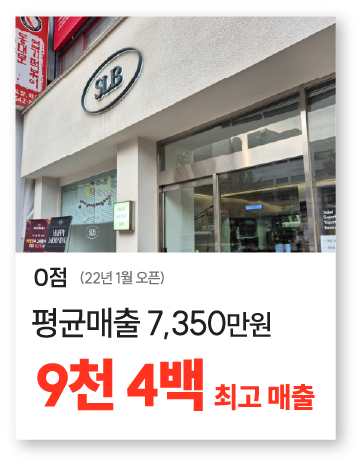
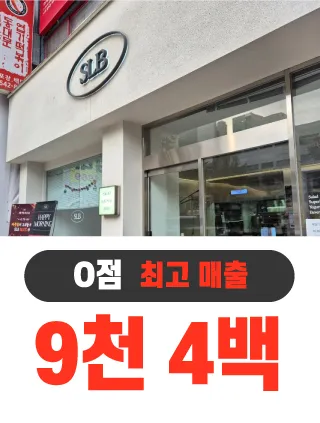
fix: Point2Section 및 Sub4Section1의 이미지 스타일 수정 및 비율 조정

diff --git a/src/components/main/main/Point2Section.tsx b/src/components/main/main/Point2Section.tsx
@@ -47,12 +47,12 @@ const Point2Section: React.FC = () => {
         </SlideUpOnView>
         {deviceInfo.isSmallScreen || deviceInfo.isMobile ? (
           <div
-            className={`w-full mt-6 mb-10 px-10 flex flex-col justify-around items-center`}
+            className={`w-[95%] mt-6 mb-10 px-10 flex flex-col justify-around gap-5 items-center`}
           >
             <div className=''>
               <img
                 loading='lazy'
-                className='w-full rounded-t'
+                className='aspect-[455/220] w-full shadow-[4px_4px_12px_rgba(0,0,0,0.25),_-2px_-2px_6px_rgba(0,0,0,0.15)]'
                 alt='평균매출 7,350만원 9천4백 최고매출'
                 src={`${process.env.PUBLIC_URL}/main/point_2_mo_3.webp`}
               />
@@ -60,7 +60,7 @@ const Point2Section: React.FC = () => {
             <div className=''>
               <img
                 loading='lazy'
-                className='w-full rounded-t'
+                className='aspect-[455/220] w-full shadow-[4px_4px_12px_rgba(0,0,0,0.25),_-2px_-2px_6px_rgba(0,0,0,0.15)]'
                 alt='평균매출 4,700만원 8천9백 최고매출'
                 src={`${process.env.PUBLIC_URL}/main/point_2_mo_2.webp`}
               />
@@ -68,7 +68,7 @@ const Point2Section: React.FC = () => {
             <div className=''>
               <img
                 loading='lazy'
-                className='w-full rounded-t'
+                className='aspect-[455/220] w-full  shadow-[4px_4px_12px_rgba(0,0,0,0.25),_-2px_-2px_6px_rgba(0,0,0,0.15)]'
                 alt='평균매출 7,960만원 7천9백 최고매출'
                 src={`${process.env.PUBLIC_URL}/main/point_2_mo_1.webp`}
               />
@@ -79,7 +79,7 @@ const Point2Section: React.FC = () => {
             <div className='w-[31%]'>
               <img
                 loading='lazy'
-                className='w-full rounded-t'
+                className='aspect-[320/423] w-full shadow-[4px_4px_12px_rgba(0,0,0,0.25),_-2px_-2px_6px_rgba(0,0,0,0.15)]'
                 alt='평균매출 7,350만원 9천4백 최고매출'
                 src={`${process.env.PUBLIC_URL}/main/point_2_store_1.webp`}
               />
@@ -87,7 +87,7 @@ const Point2Section: React.FC = () => {
             <div className='w-[31%]'>
               <img
                 loading='lazy'
-                className='w-full rounded-t'
+                className='aspect-[320/423] w-full shadow-[4px_4px_12px_rgba(0,0,0,0.25),_-2px_-2px_6px_rgba(0,0,0,0.15)]'
                 alt='평균매출 4,700만원 8천9백 최고매출'
                 src={`${process.env.PUBLIC_URL}/main/point_2_store_2.webp`}
               />
@@ -95,7 +95,7 @@ const Point2Section: React.FC = () => {
             <div className='w-[31%]'>
               <img
                 loading='lazy'
-                className='w-full rounded-t'
+                className='aspect-[320/423] w-full shadow-[4px_4px_12px_rgba(0,0,0,0.25),_-2px_-2px_6px_rgba(0,0,0,0.15)]'
                 alt='평균매출 7,960만원 7천9백 최고매출'
                 src={`${process.env.PUBLIC_URL}/main/point_2_store_3.webp`}
               />
@@ -106,9 +106,9 @@ const Point2Section: React.FC = () => {
           <></>
         ) : (
           <a
-            href="/sub_4/rateOfReturn"
-            target="_blank"
-            rel="noopener noreferrer"
+            href='/sub_4/rateOfReturn'
+            target='_blank'
+            rel='noopener noreferrer'
             className={`${
               deviceInfo.isSmallScreen || deviceInfo.isMobile
                 ? 'text-sub'

diff --git a/src/components/main/sub/sub_4/Sub4Section1.tsx b/src/components/main/sub/sub_4/Sub4Section1.tsx
@@ -853,12 +853,12 @@ const Sub4Section1: React.FC = () => {
           </SlideUpOnView>
           {deviceInfo.isSmallScreen || deviceInfo.isMobile ? (
             <div
-              className={`w-full mt-6 mb-10 px-10 flex flex-col justify-around items-center`}
+              className={`w-[95%] mt-6 mb-10 px-10 flex flex-col justify-around gap-5 items-center`}
             >
               <div className=''>
                 <img
                   loading='lazy'
-                  className='w-full rounded-t'
+                  className='aspect-[455/220] w-full shadow-[4px_4px_12px_rgba(0,0,0,0.25),_-2px_-2px_6px_rgba(0,0,0,0.15)]'
                   alt='평균매출 7,350만원 9천4백 최고매출'
                   src={`${process.env.PUBLIC_URL}/main/point_2_mo_3.webp`}
                 />
@@ -866,7 +866,7 @@ const Sub4Section1: React.FC = () => {
               <div className=''>
                 <img
                   loading='lazy'
-                  className='w-full rounded-t'
+                  className='aspect-[455/220] w-full shadow-[4px_4px_12px_rgba(0,0,0,0.25),_-2px_-2px_6px_rgba(0,0,0,0.15)]'
                   alt='평균매출 4,700만원 8천9백 최고매출'
                   src={`${process.env.PUBLIC_URL}/main/point_2_mo_2.webp`}
                 />
@@ -874,7 +874,7 @@ const Sub4Section1: React.FC = () => {
               <div className=''>
                 <img
                   loading='lazy'
-                  className='w-full rounded-t'
+                  className='aspect-[455/220] w-full shadow-[4px_4px_12px_rgba(0,0,0,0.25),_-2px_-2px_6px_rgba(0,0,0,0.15)]'
                   alt='평균매출 7,960만원 7천9백 최고매출'
                   src={`${process.env.PUBLIC_URL}/main/point_2_mo_1.webp`}
                 />
@@ -885,7 +885,7 @@ const Sub4Section1: React.FC = () => {
               <div className='w-[31%]'>
                 <img
                   loading='lazy'
-                  className='w-full rounded-t'
+                  className='aspect-[320/423] w-full shadow-[4px_4px_12px_rgba(0,0,0,0.25),_-2px_-2px_6px_rgba(0,0,0,0.15)]'
                   alt='평균매출 7,350만원 9천4백 최고매출'
                   src={`${process.env.PUBLIC_URL}/main/point_2_store_1.webp`}
                 />
@@ -893,7 +893,7 @@ const Sub4Section1: React.FC = () => {
               <div className='w-[31%]'>
                 <img
                   loading='lazy'
-                  className='w-full rounded-t'
+                  className='aspect-[320/423] w-full shadow-[4px_4px_12px_rgba(0,0,0,0.25),_-2px_-2px_6px_rgba(0,0,0,0.15)]'
                   alt='평균매출 4,700만원 8천9백 최고매출'
                   src={`${process.env.PUBLIC_URL}/main/point_2_store_2.webp`}
                 />
@@ -901,7 +901,7 @@ const Sub4Section1: React.FC = () => {
               <div className='w-[31%]'>
                 <img
                   loading='lazy'
-                  className='w-full rounded-t'
+                  className='aspect-[320/423] w-full shadow-[4px_4px_12px_rgba(0,0,0,0.25),_-2px_-2px_6px_rgba(0,0,0,0.15)]'
                   alt='평균매출 7,960만원 7천9백 최고매출'
                   src={`${process.env.PUBLIC_URL}/main/point_2_store_3.webp`}
                 />
